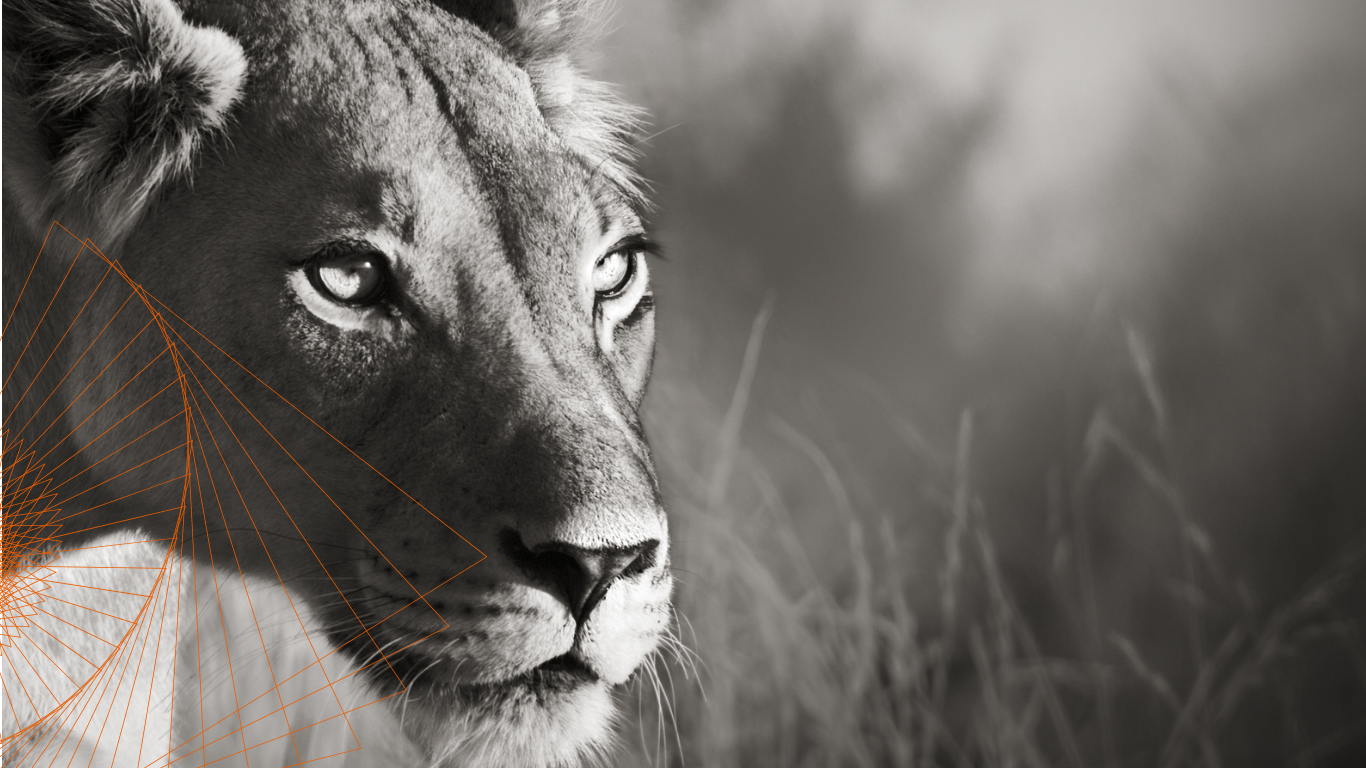
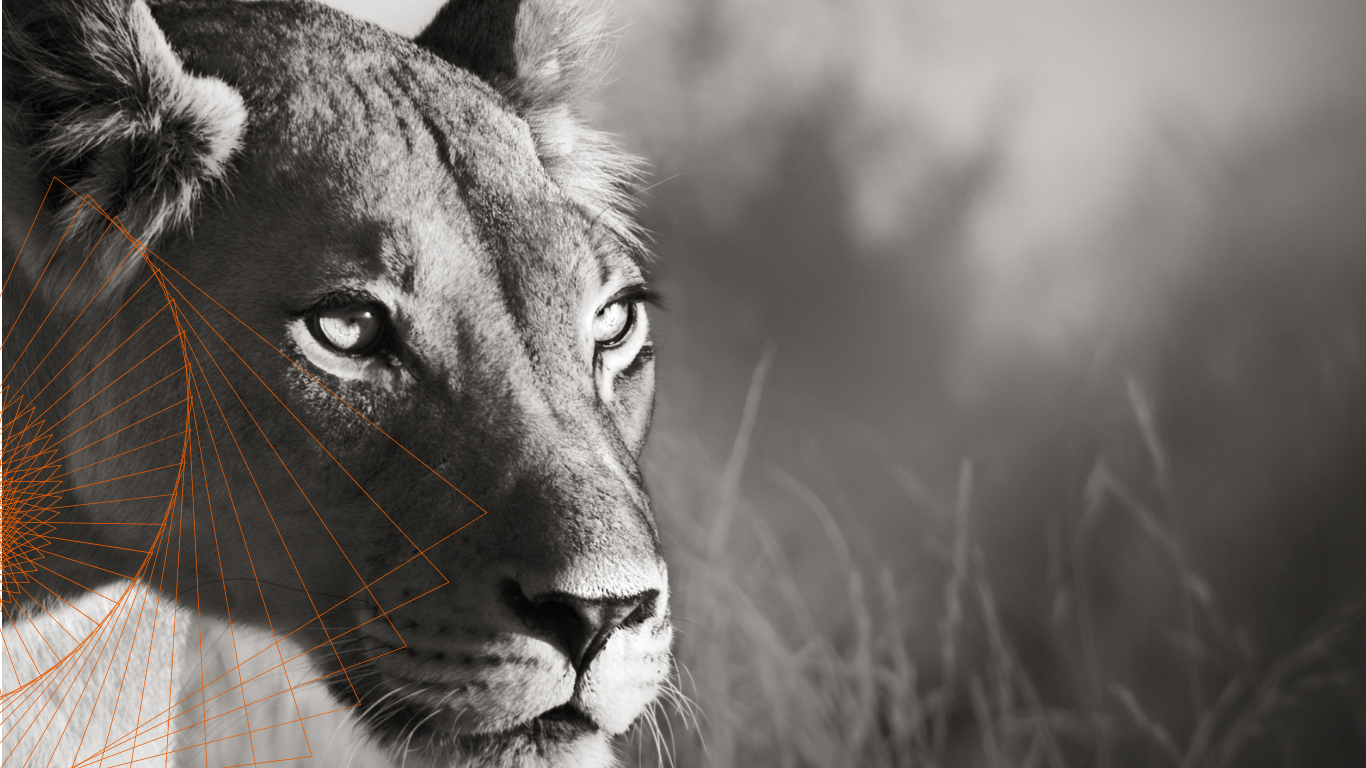
Refine hero typography and layout

diff --git a/src/styles/global.css b/src/styles/global.css
@@ -111,10 +111,54 @@ img {
   flex-direction: column;
   align-items: flex-start;
   text-align: left;
-  max-width: 620px;
+  width: min(100%, 585px);
+  max-width: 585px;
   position: relative;
   z-index: 1;
   margin-left: auto;
+  margin-right: 0;
+  padding: 22px 24px 22px;
+  border-radius: 18px;
+  background: linear-gradient(
+    90deg,
+    rgba(42, 33, 28, 0.74) 0%,
+    rgba(42, 33, 28, 0.66) 52%,
+    rgba(42, 33, 28, 0.18) 100%
+  );
+  box-shadow: 0 24px 60px rgba(0, 0, 0, 0.16);
+  backdrop-filter: blur(2px);
+}
+
+.hero-kicker {
+  display: flex;
+  flex-direction: column;
+  gap: 3px;
+  margin: 0 0 14px;
+  font-family: "Anton", sans-serif;
+  width: 100%;
+  max-width: none;
+  align-self: stretch;
+  font-size: clamp(14px, 1.1vw, 17px);
+  font-weight: 400;
+  line-height: 1;
+  letter-spacing: 0.09em;
+  text-transform: uppercase;
+}
+
+.hero-kicker__line {
+  display: block;
+  width: 100%;
+  color: var(--accent);
+  text-shadow: 0 2px 18px rgba(0, 0, 0, 0.28);
+}
+
+.hero-kicker__meta {
+  display: block;
+  width: 100%;
+  color: rgba(255, 255, 255, 0.88);
+  font-size: clamp(11px, 0.78vw, 13px);
+  letter-spacing: 0.14em;
+  margin-top: 2px;
 }
 
 .eyebrow {
@@ -136,17 +180,37 @@ img {
 }
 
 .hero-title {
-  max-width: 560px;
-  font-size: clamp(54px, 6vw, 72px);
-  text-wrap: balance;
+  max-width: none;
+  width: 100%;
+  font-size: clamp(26px, 2.9vw, 36px);
+  line-height: 1.08;
+  color: var(--white);
+  text-shadow:
+    0 2px 0 rgba(0, 0, 0, 0.14),
+    0 10px 24px rgba(0, 0, 0, 0.2);
 }
 
-.hero-subtitle {
-  max-width: 560px;
-  margin: 24px 0 0;
-  color: var(--text-secondary);
-  font-size: 18px;
-  line-height: 1.6;
+.hero-manifesto {
+  display: flex;
+  flex-wrap: wrap;
+  gap: 8px 14px;
+  margin: 16px 0 0;
+  color: var(--white);
+  font-size: 10px;
+  font-weight: 600;
+  letter-spacing: 0.06em;
+  text-transform: uppercase;
+  text-shadow: 0 6px 18px rgba(0, 0, 0, 0.2);
+}
+
+.hero-manifesto span::after {
+  content: "/";
+  margin-left: 14px;
+  color: var(--accent);
+}
+
+.hero-manifesto span:last-child::after {
+  content: none;
 }
 
 .section {
@@ -949,14 +1013,6 @@ img {
     padding: 24px;
   }
 
-  .hero-title {
-    font-size: clamp(44px, 5vw, 60px);
-  }
-
-  .hero-subtitle {
-    font-size: 16px;
-  }
-
   .image-large {
     height: 360px;
   }
@@ -980,8 +1036,7 @@ img {
     max-width: 100%;
   }
 
-  .hero-title,
-  .hero-subtitle {
+  .hero-title {
     max-width: 100%;
   }
 
@@ -998,6 +1053,23 @@ img {
     align-items: center;
     text-align: center;
     max-width: 100%;
+    margin-left: 0;
+    padding: 24px 20px 26px;
+  }
+
+  .hero-kicker {
+    align-items: center;
+  }
+
+  .hero-manifesto {
+    justify-content: center;
+    gap: 10px;
+    font-size: 13px;
+    letter-spacing: 0.06em;
+  }
+
+  .hero-manifesto span::after {
+    margin-left: 10px;
   }
 
   .pain-scroll__cards {
@@ -1069,16 +1141,26 @@ img {
     align-items: flex-start;
   }
 
-  .hero-title {
-    font-size: 48px;
-  }
-
   .hero-subtitle {
     font-size: 16px;
   }
 
   .hero {
     background-position: 36% center;
+  }
+
+  .hero-kicker {
+    font-size: 18px;
+    letter-spacing: 0.1em;
+  }
+
+  .hero-kicker__meta {
+    font-size: 13px;
+    letter-spacing: 0.16em;
+  }
+
+  .hero-title {
+    font-size: 48px;
   }
 
   .hero-actions {
